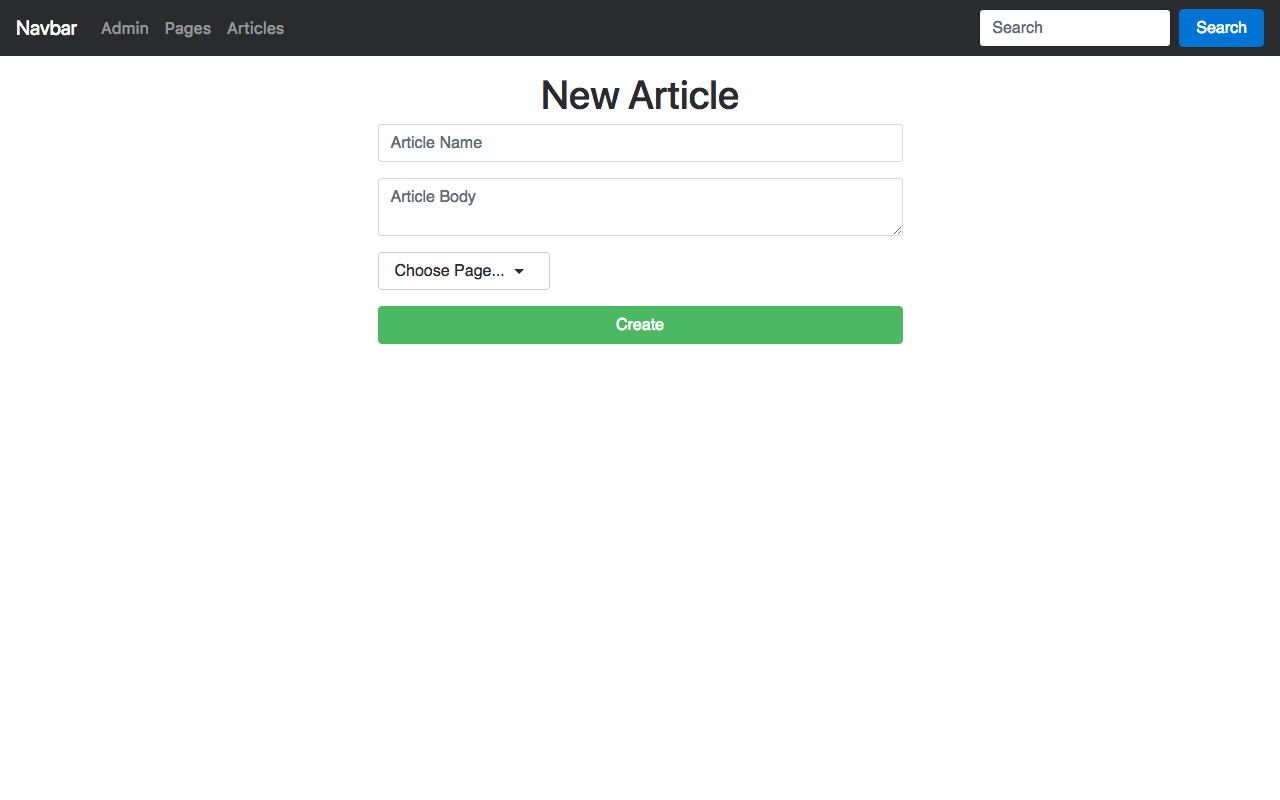
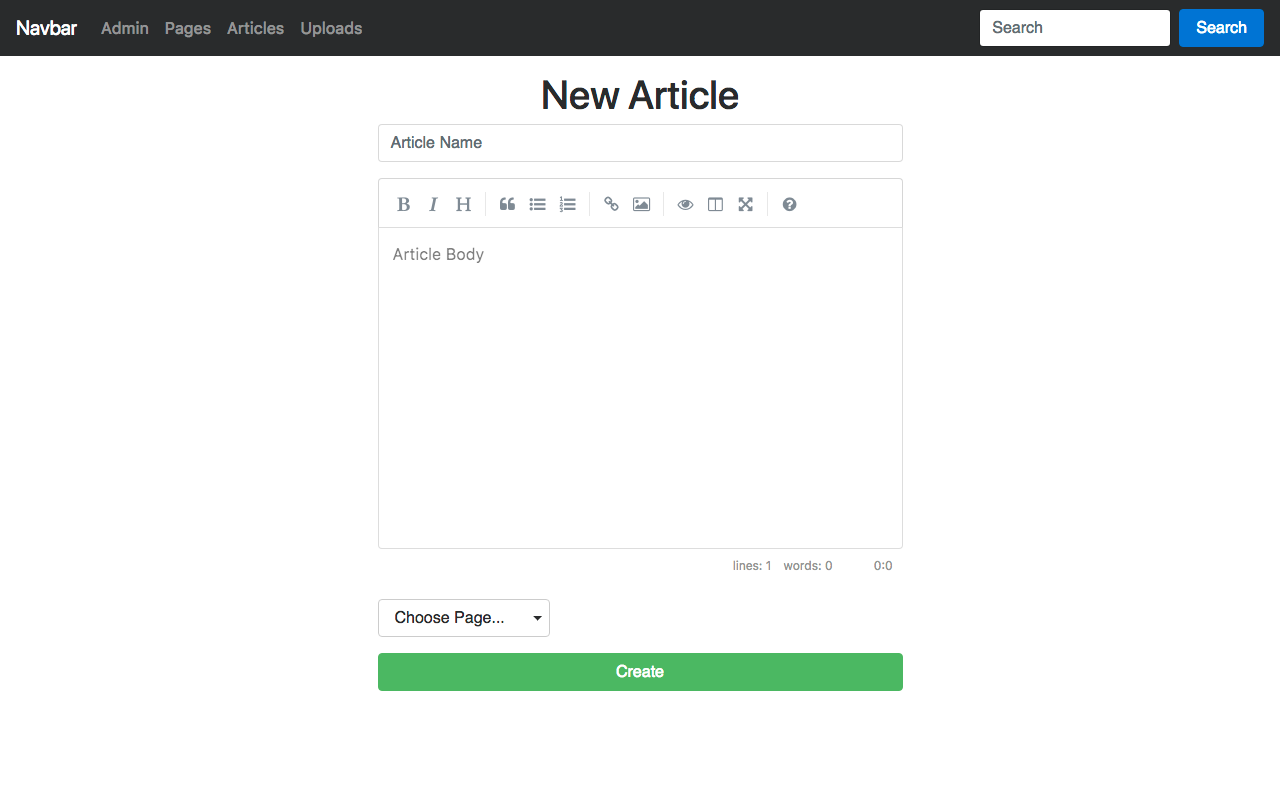
added markdown editor

diff --git a/README.md b/README.md
@@ -7,7 +7,7 @@
     <li> Pagination </li>
     <li> Page and Article creation </li>
     <li> Uploads </li>
-    <li> Markdown </li>
+    <li> Markdown support and editor </li>
     <li> Syntax Highlighting </li>
     <li> Google Analytics </li>
     <li> Disqus </li>
